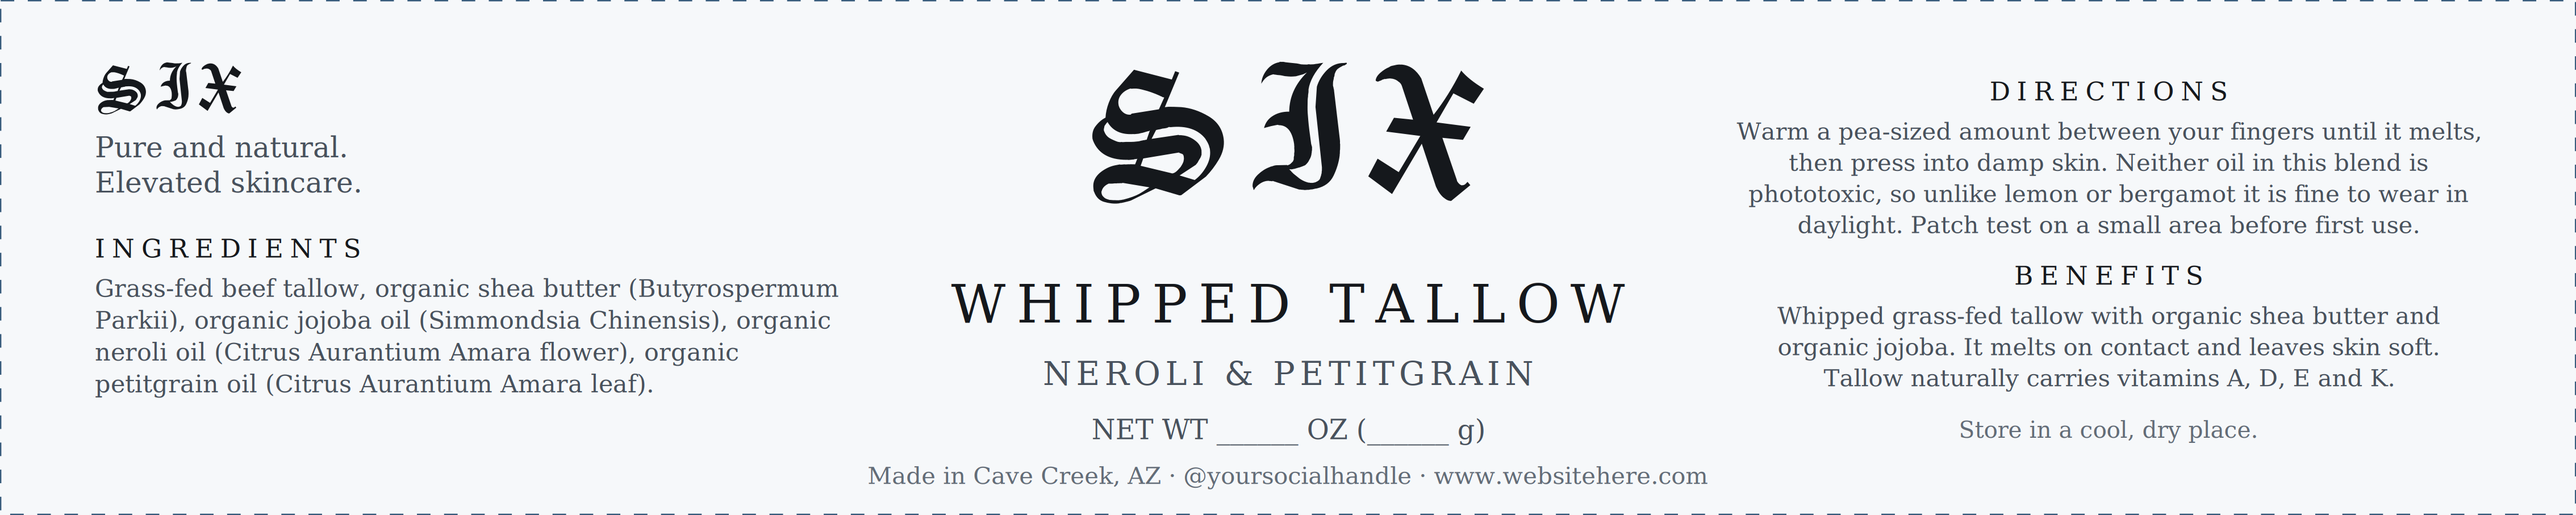
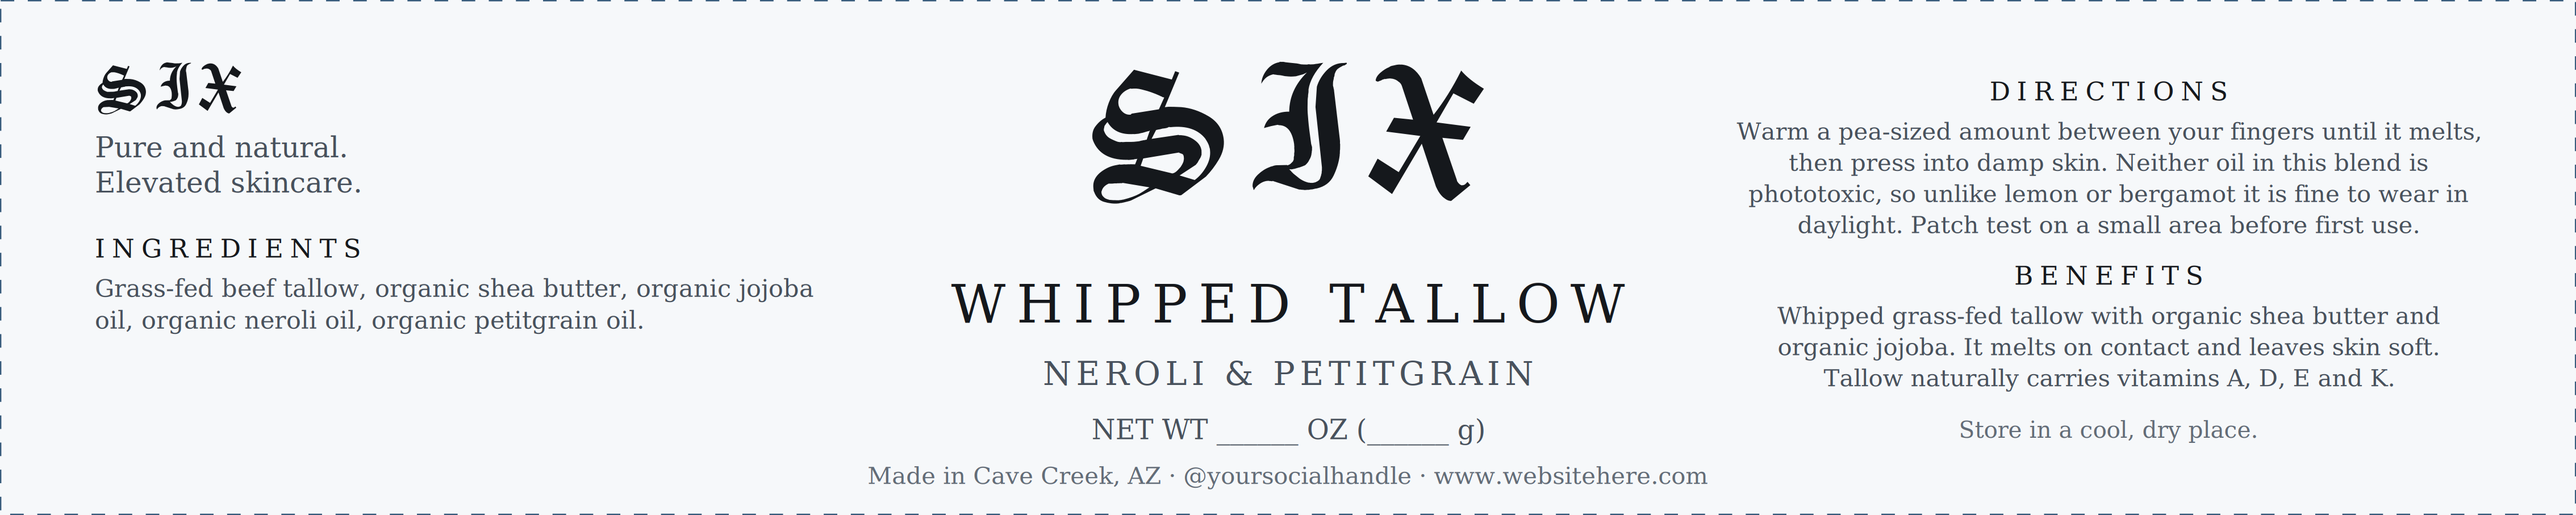
Set the label ingredients in common names
Strips the botanical names from the declaration on the jar, matching the
reference label. The full declaration, binomials included, stays on every
product page.

Noted in the labels README: 21 CFR 701.3 asks for INCI names, and for a plant
material the INCI name is the binomial, so this is a common-name declaration
rather than a compliant one. One function to delete if that matters.

Claude-Session: https://claude.ai/code/session_01TYn4u9H1AxY32yb73P56yk

Changed region(s): [[0.0311, 0.5865, 0.342, 0.7718], [0.2487, 0.5248, 0.342, 0.5865]]

diff --git a/scripts/make-labels.py b/scripts/make-labels.py
@@ -192,6 +192,22 @@ def width(text: str, size: float, serif: bool = True, tracking: float = 0.0) -> 
     return total + tracking * max(len(text) - 1, 0)
 
 
+def plain(ingredients: str) -> str:
+    """Strip the botanical names out of an ingredient declaration.
+
+    Worth knowing what this costs. 21 CFR 701.3 wants ingredients declared by
+    their INCI names, and for a plant material the INCI name IS the Latin
+    binomial — "Butyrospermum Parkii (Shea) Butter", not "shea butter". A
+    declaration in common names only is not a compliant one.
+
+    The website still carries the full declaration on every product page, so
+    the information is published either way; this only governs what is set on
+    the jar. Delete this function and pass p["ingredients"] straight through
+    to put the binomials back.
+    """
+    return re.sub(r"\s*\([^)]*\)", "", ingredients)
+
+
 def nobreak(name: str) -> str:
     """Keep reduplicated names whole. "Ylang" on its own is not the word."""
     return name.replace("Ylang Ylang", "Ylang\u00a0Ylang")
@@ -388,7 +404,7 @@ def front_label(p, mark, guides, net) -> str:
         y += 2.2 * k
         parts.append(text(left_x, y, "INGREDIENTS", 1.9 * k, tracking=0.5 * k))
         y += 2.9 * k
-        for line in wrap(p["ingredients"], 1.8 * k, col):
+        for line in wrap(plain(p["ingredients"]), 1.8 * k, col):
             parts.append(text(left_x, y, line, 1.8 * k, fill=INK_SOFT))
             y += 2.35 * k
         return parts, y - 2.35 * k

diff --git a/design/labels/README.md b/design/labels/README.md
@@ -83,6 +83,13 @@ skin, which is how it is phrased on the website too.
 - The label states what the product is, what is in it, how much of it there is
   and who made it. It makes no claim about what it does, which is what keeps a
   cosmetic a cosmetic.
+- The ingredient declaration is set in common names, with the botanical names
+  stripped. This is worth knowing: 21 CFR 701.3 asks for INCI names, and for a
+  plant material the INCI name is the Latin binomial — "Butyrospermum Parkii
+  (Shea) Butter" rather than "shea butter" — so a common-name declaration is
+  not a compliant one. The full declaration is on every product page either
+  way. `plain()` in the script is the one function to delete to put the
+  binomials back on the jar.
 - The naturally occurring fragrance allergens are published on each product
   page but are not on the label. No US regulator asks for them here. If these
   are ever sold into the EU or UK, they have to go back on — the script still
